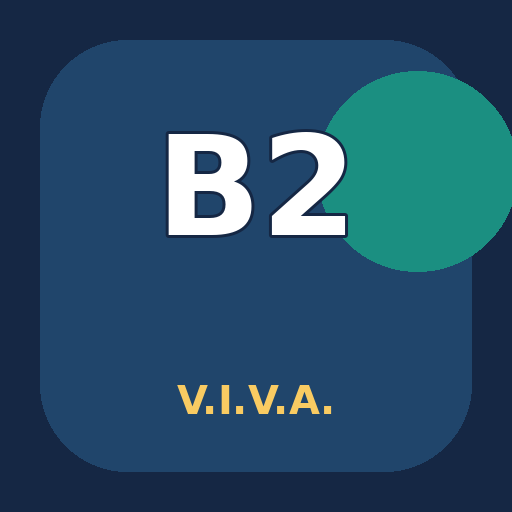
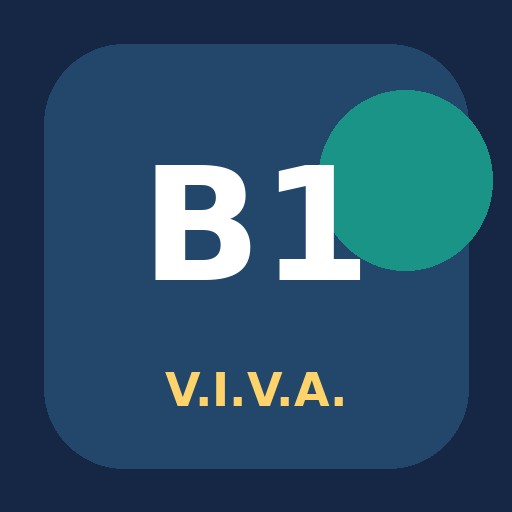
Add files via upload

diff --git a/index.html b/index.html
@@ -14,7 +14,7 @@
     *{box-sizing:border-box}html{scroll-behavior:smooth}body{margin:0;background:var(--bg);font-family:system-ui,-apple-system,"Segoe UI",Roboto,Arial,sans-serif;color:var(--navy);line-height:1.5;padding-bottom:calc(90px + env(safe-area-inset-bottom));}
     button,input{font:inherit}button{cursor:pointer}button:disabled{cursor:not-allowed;opacity:.58}a{color:inherit}button:focus-visible,a:focus-visible,input:focus-visible{outline:3px solid #f0b62c;outline-offset:3px}
     .wrap{width:min(960px,100%);margin:auto;padding:20px 20px 0}.top{display:flex;justify-content:space-between;align-items:center;gap:12px;margin-bottom:22px}.brand{display:flex;align-items:center;gap:9px;text-decoration:none}.mark{width:43px;height:43px;border-radius:13px;background:var(--navy);color:#fff;display:grid;place-items:center;font-size:15px;font-weight:900;letter-spacing:-.8px;box-shadow:0 5px 12px rgba(20,39,68,.12)}.brandname{font-weight:900;letter-spacing:-.5px;line-height:1.1}.brandsub{color:var(--muted);font-weight:700;font-size:12px;letter-spacing:.12em}.pill{display:inline-flex;align-items:center;gap:6px;border:1px solid var(--line);background:#fff;border-radius:50px;padding:7px 10px;font-size:11px;font-weight:800;letter-spacing:.1em;white-space:nowrap}
-    .hero{position:relative;overflow:hidden;background:linear-gradient(115deg,#152744 12%,#294872 90%);border-radius:26px;color:#fff;padding:26px 23px 24px;box-shadow:var(--shadow)}.hero:after{content:"B2";font-weight:900;font-size:clamp(110px,27vw,230px);line-height:1;color:rgba(255,255,255,.06);position:absolute;right:-2%;top:-20px;pointer-events:none}.eyebrow{font-size:11px;font-weight:900;letter-spacing:.16em;color:var(--yellow);text-transform:uppercase}.hero h1{position:relative;z-index:1;font-size:clamp(29px,5.4vw,44px);letter-spacing:-.05em;line-height:1.12;margin:11px 0}.hero p{max-width:410px;font-size:14px;color:#d5e0ed;margin:0 0 21px;position:relative;z-index:1}.hero-actions{display:flex;flex-wrap:wrap;gap:10px;position:relative;z-index:1}.join,.btn{border:0;display:inline-flex;align-items:center;justify-content:center;gap:10px;border-radius:13px;padding:13px 17px;font-size:14px;font-weight:850;text-decoration:none}.join{background:var(--yellow);color:#182843;box-shadow:0 4px 0 rgba(3,10,22,.15)}.btn-light{background:#ffffff19;color:#fff;border:1px solid #ffffff4a}.join:hover{filter:brightness(1.04)}.tiny-note{font-size:11px;margin-top:12px;color:#cfdae9;position:relative;z-index:1}
+    .hero{position:relative;overflow:hidden;background:linear-gradient(115deg,#152744 12%,#294872 90%);border-radius:26px;color:#fff;padding:26px 23px 24px;box-shadow:var(--shadow)}.hero:after{content:"B1";font-weight:900;font-size:clamp(110px,27vw,230px);line-height:1;color:rgba(255,255,255,.06);position:absolute;right:-2%;top:-20px;pointer-events:none}.eyebrow{font-size:11px;font-weight:900;letter-spacing:.16em;color:var(--yellow);text-transform:uppercase}.hero h1{position:relative;z-index:1;font-size:clamp(29px,5.4vw,44px);letter-spacing:-.05em;line-height:1.12;margin:11px 0}.hero p{max-width:410px;font-size:14px;color:#d5e0ed;margin:0 0 21px;position:relative;z-index:1}.hero-actions{display:flex;flex-wrap:wrap;gap:10px;position:relative;z-index:1}.join,.btn{border:0;display:inline-flex;align-items:center;justify-content:center;gap:10px;border-radius:13px;padding:13px 17px;font-size:14px;font-weight:850;text-decoration:none}.join{background:var(--yellow);color:#182843;box-shadow:0 4px 0 rgba(3,10,22,.15)}.btn-light{background:#ffffff19;color:#fff;border:1px solid #ffffff4a}.join:hover{filter:brightness(1.04)}.tiny-note{font-size:11px;margin-top:12px;color:#cfdae9;position:relative;z-index:1}
     .section-head{margin:30px 0 15px;display:flex;justify-content:space-between;align-items:end;gap:12px}.section-head h2{font-size:21px;letter-spacing:-.04em;margin:0}.section-head p{font-size:12px;color:var(--muted);margin:3px 0 0}.score-chip{border-radius:12px;background:var(--teal-light);color:var(--ok);font-weight:900;padding:7px 12px;font-size:13px;white-space:nowrap}.card{background:#fff;border:1px solid var(--line);border-radius:18px;padding:19px;box-shadow:var(--shadow)}.module-card{display:block;text-align:left;width:100%;border:1px solid var(--line);background:#fff;border-radius:18px;padding:18px;cursor:pointer;box-shadow:var(--shadow)}.module-top{display:flex;align-items:center;justify-content:space-between;gap:9px}.number{display:inline-flex;align-items:center;justify-content:center;border-radius:12px;background:var(--navy);color:var(--yellow);font-weight:950;font-size:22px;min-width:58px;height:56px}.small{font-size:11px;color:var(--muted);font-weight:750;letter-spacing:.05em}.module-card h3{margin:12px 0 4px;font-size:18px;line-height:1.25}.module-card p{margin:0;color:var(--muted);font-size:12px}.progress-track{height:8px;border-radius:99px;background:#e6edf4;overflow:hidden;margin-top:18px}.progress-fill{display:block;background:linear-gradient(90deg,var(--teal),#3cc9a6);height:100%;border-radius:inherit;transition:width .3s}.module-bottom{display:flex;justify-content:space-between;align-items:center;margin-top:9px;font-size:12px;font-weight:800}.module-bottom span:last-child{color:var(--teal)}.notice{border:1px dashed #bed0df;border-radius:17px;margin-top:14px;background:#f9fbfe;padding:15px 17px;font-size:13px;color:#546782}.notice b{color:var(--navy)}
     .back{border:none;background:none;color:var(--navy);font-weight:800;padding:5px 0;margin-bottom:14px}.unit-hero{background:var(--navy);color:#fff;border-radius:22px;padding:24px}.unit-hero h1{font-size:25px;line-height:1.13;letter-spacing:-.04em;margin:8px 0}.unit-hero p{font-size:13px;color:#cdd9e8;margin:0}.lesson{margin:15px 0}.lesson p{font-size:13px;margin:8px 0}.lesson-grid{display:grid;grid-template-columns:1fr 1fr;gap:8px;margin-top:14px}.lesson-mini{border:1px solid #d7e9e2;background:#f3fbf7;border-radius:12px;padding:10px;font-size:12px;color:#3e6270}.lesson-mini strong{display:block;color:var(--ok);margin-bottom:4px}.lesson-title{display:flex;align-items:center;gap:8px;font-size:15px;font-weight:900}.exercise{margin-top:16px}.ex-head{display:flex;justify-content:space-between;align-items:flex-start;gap:13px;border-bottom:1px solid var(--line);padding-bottom:14px}.ex-head h2{font-size:18px;letter-spacing:-.035em;margin:2px 0}.ex-head p{margin:0;font-size:12px;color:var(--muted)}.excount{background:#edf2f8;color:var(--navy);border-radius:8px;padding:5px 9px;font-weight:850;font-size:12px;white-space:nowrap}.intro{background:#f8f5ea;border-left:3px solid var(--yellow);border-radius:6px;padding:13px;margin:15px 0;font-size:13px}.question{padding:17px 0;border-bottom:1px solid #edf1f6}.question:last-of-type{border-bottom:0}.question-top{display:flex;gap:9px;align-items:start}.qnum{background:#edf2f8;color:#426484;border-radius:7px;font-size:11px;padding:2px 7px;font-weight:900;flex:none}.prompt{white-space:pre-line;font-size:14px;margin:0 0 12px;overflow-wrap:anywhere}.answer-input{width:100%;max-width:540px;padding:12px 13px;color:var(--navy);border-radius:11px;background:#fcfdff;border:1.5px solid #cbd7e3;font-size:14px}.choices{display:grid;grid-template-columns:1fr;gap:7px}.choice{border:1.5px solid #cad6e5;border-radius:10px;padding:11px 13px;text-align:left;color:var(--navy);background:#fff;font-size:13px}.choice.selected{background:#e7f4f1;border-color:var(--teal);font-weight:800}.q-tools{margin-top:9px;display:flex;gap:10px}.micro{border:0;background:none;padding:2px 0;color:#526f89;font-size:12px;font-weight:800;text-decoration:underline;text-underline-offset:3px}.helper{font-size:12px;color:#4b6880;margin:7px 0 0}.feedback{display:none;font-size:12px;line-height:1.5;margin-top:9px;border-radius:9px;padding:10px 12px}.feedback.visible{display:block}.feedback.good{background:var(--teal-light);color:var(--ok)}.feedback.bad{background:var(--bad-light);color:var(--bad)}.check-summary{font-size:13px;margin-top:14px;font-weight:800;color:var(--navy);min-height:20px}.check-summary.muted{color:var(--muted)}.actions{display:flex;gap:8px;flex-wrap:wrap;margin-top:10px}.action-primary{border:0;border-radius:10px;color:#fff;background:var(--navy);padding:11px 15px;font-weight:800;font-size:13px}.action-quiet{border:1px solid #cbd6e2;border-radius:10px;background:#fff;padding:11px 12px;font-size:13px;font-weight:800;color:var(--navy)}.threshold{font-size:12px;color:var(--muted);margin:15px 0 0}
     .field{display:block;font-size:12px;font-weight:850;margin:18px 0 5px}.input-url{display:block;width:100%;border:1.5px solid var(--line);padding:13px;border-radius:11px;color:var(--navy);background:#fff;font-size:14px}.status{min-height:23px;font-size:12px;font-weight:700;margin-top:12px}.setting-copy{font-size:13px;color:var(--muted);margin:8px 0}.setting-note{background:#fff9e9;border-left:3px solid #efb52e;padding:12px;border-radius:7px;font-size:12px;margin-top:18px}.install-list{font-size:13px;line-height:1.7;padding-left:20px}.foot{font-size:12px;color:#7e8ca1;text-align:center;padding:28px 10px 8px}.bottom-nav{position:fixed;z-index:5;bottom:0;left:0;right:0;display:flex;justify-content:center;background:rgba(255,255,255,.95);backdrop-filter:blur(12px);border-top:1px solid var(--line);padding:9px 8px calc(8px + env(safe-area-inset-bottom));gap:8px}.navbutton{border:0;border-radius:11px;background:none;display:flex;align-items:center;justify-content:center;flex-direction:column;gap:3px;color:#6e7e94;font-size:11px;font-weight:800;padding:9px 12px;min-width:95px}.navbutton.active{background:#e7f2f0;color:var(--ok)}.navicon{font-size:18px;line-height:1.1}

diff --git a/app.js b/app.js
@@ -69,7 +69,7 @@
     app.innerHTML=`
       <section class="hero">
         <div class="eyebrow">YOUR NEXT LEVEL STARTS HERE</div>
-        <h1>English B2<br>Companion</h1>
+        <h1>English B1<br>Companion</h1>
         <p>Practica gramática, identifica tus errores y llega con más confianza a cada clase.</p>
         <div class="hero-actions">${joinButton()}<button class="btn btn-light" type="button" data-route="m01">Empezar práctica ↗</button></div>
       </section>
@@ -110,7 +110,7 @@
   }
   function renderSettings(){
     const local=localStorage.getItem(MEET_OVERRIDE_KEY)||'';
-    app.innerHTML=`<button type="button" class="back" data-route="inicio">‹ Inicio</button><section class="card"><span class="small">CONFIGURACIÓN</span><h1 style="margin:7px 0;font-size:25px;letter-spacing:-.04em">Google Meet</h1><p class="setting-copy">El botón <b>JOIN CLASS</b> abre Google Meet en otra pestaña o en su aplicación, según el teléfono.</p><p class="setting-copy">${getMeet()?'Hay un enlace configurado.':'Todavía no hay un enlace de clase configurado.'}</p><form id="meet-form"><label class="field" for="meet-url">Enlace de Meet para este teléfono</label><input id="meet-url" class="input-url" type="url" value="${esc(local)}" placeholder="https://meet.google.com/xxx-xxxx-xxx" autocapitalize="off" spellcheck="false" autocomplete="url"><p class="setting-copy">Si lo dejas vacío, se usa el enlace general definido por la academia.</p><div class="actions"><button type="submit" class="action-primary">Guardar enlace</button><button type="button" class="action-quiet" data-clear-link="1">Borrar enlace local</button></div><div class="status" id="meet-status" role="status"></div></form><div class="setting-note"><b>Para todos los alumnos:</b> el enlace general se configura una sola vez en <b>config.js</b> y se publica en GitHub Pages. Lo que guardes aquí solo afecta este dispositivo.</div></section><section class="card" style="margin-top:15px"><span class="small">INSTALACIÓN</span><h2 style="font-size:18px;margin:8px 0">Lleva V.I.V.A. B2 a tu pantalla de inicio</h2><p class="setting-copy">La práctica gramatical puede seguir funcionando sin internet después de cargar la app. Para entrar a Meet, sí necesitas conexión.</p><button type="button" class="action-primary" data-install="1">Instalar aplicación</button><div class="status" id="install-status" role="status"></div><ol class="install-list"><li>Abre la app publicada con <b>Chrome</b> en Android.</li><li>Toca el menú de tres puntos.</li><li>Selecciona <b>Instalar aplicación</b> o <b>Añadir a pantalla de inicio</b>.</li></ol></section><section class="card" style="margin-top:15px"><h2 style="font-size:18px;margin:0">Privacidad del progreso</h2><p class="setting-copy">Tus respuestas y calificaciones se guardan en el navegador de este teléfono. No se envían a un servidor ni se sincronizan entre dispositivos.</p><button type="button" class="action-quiet" data-reset-progress="1">Borrar mi progreso B2</button></section>`;
+    app.innerHTML=`<button type="button" class="back" data-route="inicio">‹ Inicio</button><section class="card"><span class="small">CONFIGURACIÓN</span><h1 style="margin:7px 0;font-size:25px;letter-spacing:-.04em">Google Meet</h1><p class="setting-copy">El botón <b>JOIN CLASS</b> abre Google Meet en otra pestaña o en su aplicación, según el teléfono.</p><p class="setting-copy">${getMeet()?'Hay un enlace configurado.':'Todavía no hay un enlace de clase configurado.'}</p><form id="meet-form"><label class="field" for="meet-url">Enlace de Meet para este teléfono</label><input id="meet-url" class="input-url" type="url" value="${esc(local)}" placeholder="https://meet.google.com/xxx-xxxx-xxx" autocapitalize="off" spellcheck="false" autocomplete="url"><p class="setting-copy">Si lo dejas vacío, se usa el enlace general definido por la academia.</p><div class="actions"><button type="submit" class="action-primary">Guardar enlace</button><button type="button" class="action-quiet" data-clear-link="1">Borrar enlace local</button></div><div class="status" id="meet-status" role="status"></div></form><div class="setting-note"><b>Para todos los alumnos:</b> el enlace general se configura una sola vez en <b>config.js</b> y se publica en GitHub Pages. Lo que guardes aquí solo afecta este dispositivo.</div></section><section class="card" style="margin-top:15px"><span class="small">INSTALACIÓN</span><h2 style="font-size:18px;margin:8px 0">Lleva V.I.V.A. B1 a tu pantalla de inicio</h2><p class="setting-copy">La práctica gramatical puede seguir funcionando sin internet después de cargar la app. Para entrar a Meet, sí necesitas conexión.</p><button type="button" class="action-primary" data-install="1">Instalar aplicación</button><div class="status" id="install-status" role="status"></div><ol class="install-list"><li>Abre la app publicada con <b>Chrome</b> en Android.</li><li>Toca el menú de tres puntos.</li><li>Selecciona <b>Instalar aplicación</b> o <b>Añadir a pantalla de inicio</b>.</li></ol></section><section class="card" style="margin-top:15px"><h2 style="font-size:18px;margin:0">Privacidad del progreso</h2><p class="setting-copy">Tus respuestas y calificaciones se guardan en el navegador de este teléfono. No se envían a un servidor ni se sincronizan entre dispositivos.</p><button type="button" class="action-quiet" data-reset-progress="1">Borrar mi progreso B1</button></section>`;
     renderNavigation('ajustes');
   }
   function route(scroll=true){
@@ -204,7 +204,7 @@
       const status=document.getElementById('meet-status');if(status)status.textContent='Se borró el enlace local.';return;
     }
     if(event.target.closest('[data-reset-progress]')){
-      if(confirm('¿Quieres borrar todas tus respuestas y calificaciones guardadas de English B2?')){state={};store();route(false);}return;
+      if(confirm('¿Quieres borrar todas tus respuestas y calificaciones guardadas de English B1?')){state={};store();route(false);}return;
     }
     if(event.target.closest('[data-install]')){
       if(deferredInstallPrompt){

diff --git a/sw.js b/sw.js
@@ -1,5 +1,5 @@
 const CACHE_PREFIX = 'viva-b1-companion-';
-const CACHE_NAME = CACHE_PREFIX + 'v1-unit-01';
+const CACHE_NAME = CACHE_PREFIX + 'v2-unit-01-brand-fix';
 const ASSETS = ["./", "./index.html", "./app.js", "./config.js", "./m01.js", "./manifest.json", "./icon-192.png", "./icon-512.png"];
 
 self.addEventListener('install', event => {
